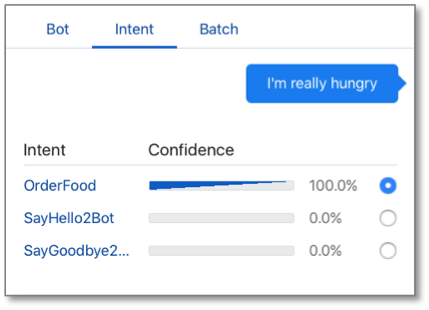
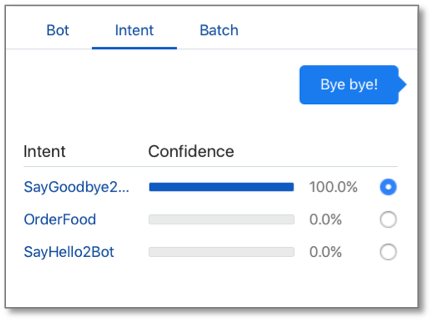
Additional Steps Added.

diff --git a/200-IB.md b/200-IB.md
@@ -2,40 +2,89 @@
 
 ## Lab 2: Building a Bot ##
 
-1. Create a new Bot called ``“Café_Supremo_TD_<your Initials>`` and give it a
-description **“Cafe Supremo Extension built by <your name>**
+1. Access the Oracle Mobile Cloud Bot Builder using the following URL.
 
-2. Click on the ``import Intents`` Button and import the Greeting intents from
-the **“Intents and Entities”** folder.
+```http://<hostname>:8080/botsui/bot```
+
+Your Instructor will give you the Mobile Cloud host name to use
+(if you are using the local Virtual Maching use *"localhost"* as the hostname)
+
+2. Create a new Bot called ``“Café_Supremo_TD_<YOUR INITIALS> "`` and give it a
+description **“Cafe Supremo Extension built by <YOUR NAME> "**
 
 <img src="img/lab2-2.png" width="75%"/>
 
-3. Click the ``[More]`` button select import intents from the drop down menu.
+3. Click on the ``import Intents`` Button and import the Greeting intents from
+the **“Intents and Entities”** folder.
 
-4. Import the **“Order Food.csv”** file to load a further Intent.
+<img src="img/lab2-3.png" width="75%"/>
 
-<img src="img/lab1-4.png" width="50%"/>
+4. Click the ``[More]`` button select import intents from the drop down menu.
 
-5. Click the Train Button to train the engine on the supplied Utterances
+<img src="img/lab2-4.png" width="75%"/>
 
-<img src="img/lab1-5.png" width="50%"/>
+5. Import the **“Order Food.csv”** file to load a further Intent.
 
-6. Click the “Arrow” to launch the Bot Tester – click on the “Intent Tab”
+6. Click on each of the Intent names in the list to see the Utterances that have been associated with that given intent
 
-7. Try entering some Utterances to determine what the NLP/ML had
-determined is your intent.
+<img src="img/lab2-6.png" width="75%"/>
 
-<img src="img/lab1-7a.png" width="50%"/> <img src="img/lab1-7b.png" width="50%"/>
+7. Click the Train Button to train the engine on the supplied Utterances
 
-8. Click the Tester Play button again to remove it.
+<img src="img/lab2-7.png" width="75%"/>
 
-<img src="img/lab1-8.png" width="50%"/>
+8. Click the "Play Button" (ther right facing triangle) to launch the Bot Tester
 
-9. Click on the Entities Icon on the left hand side tool bar ( 2nd icon down )
+<img src="img/lab2-8a.png" width="75%"/>
 
-<img src="img/lab1-9.png" width="50%"/>
+– click on the “Intent Tab”
 
-10. Click the [More] Button and select Import “Value List” Entities
+<img src="img/lab2-8b.png" width="75%"/>
+
+9. Try entering some input (utterance) into the message entry field at the bottom of the Chat Runtime Tester to determine what the NLP/ML had determined is your selected intent.
+
+<img src="img/lab2-9a.png" width="75%"/>
+
+As suggestions; try some of the following (or make up something similar)
+
+- “I’m really Hungry”
+- "I’d like something for Lunch”
+- "Good morning Mr Bot!"
+- "I’d like a bite to eat"
+- "bye bye!"
+- (Try others)
+
+Confirm that the Intent is as expected.
+
+<img src="img/lab2-9b.png" width="50%"/> <img src="img/lab2-9c.png" width="50%"/> <img src="img/lab2-9d.png" width="50%"/>
+
+10. Enter the following utterance
+
+- "Could really go for some real food"
+
+Notice that the NLP (Natural Language Processing) was unable to explicitly determine the intent based on the current set of example phrases (corpus), though it still highlighted the best option. 
+
+<img src="img/lab2-10.png" width="75%"/>
+
+11. Train the NLP engine with this additional example phrase by the following: 
+- Select the Radio Button that represents the best **Intent** (in this case the **"OrderFood"** intent) and click the ''[Add Example]'' Button.
+- Click the '[Train] button again, which now shows a (!) to indicate that the sample set has changed..
+
+<img src="img/lab2-11.png" width="75%"/>
+
+12. Re-Enter the previous utterance into the Tester and and again observe the determmined intent.
+
+<img src="img/lab2-12.png" width="75%"/>
+
+13. Click the Tester Play button again to remove it.
+
+14. Click on the Entities Icon on the left hand side tool bar ( 2nd icon down )
+
+<img src="img/lab2-14.png" width="50%"/>
+
+15. Click the [More] Button and select Import “Value List” Entities
+
+<img src="img/lab2-15.png" width="50%"/>
 
 11. Import the OrderFoodEntities.csv and YesNoEntity.csv
 
